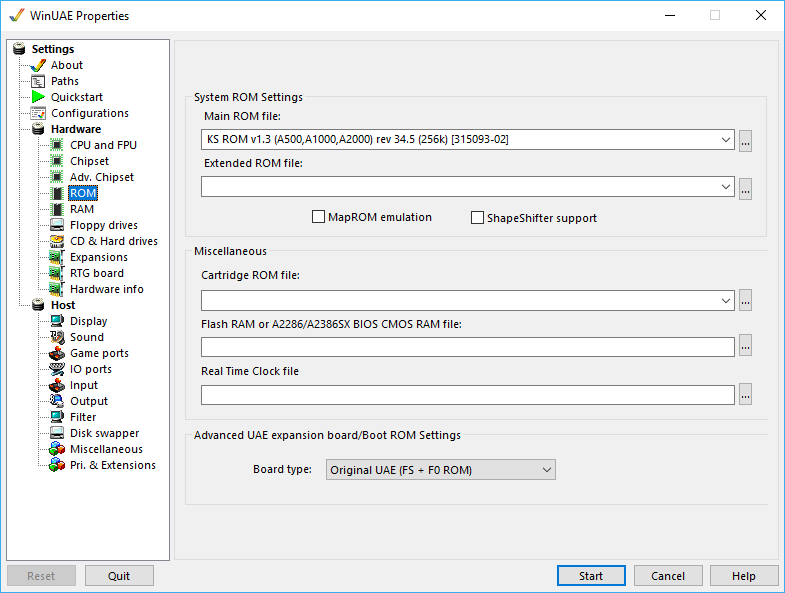
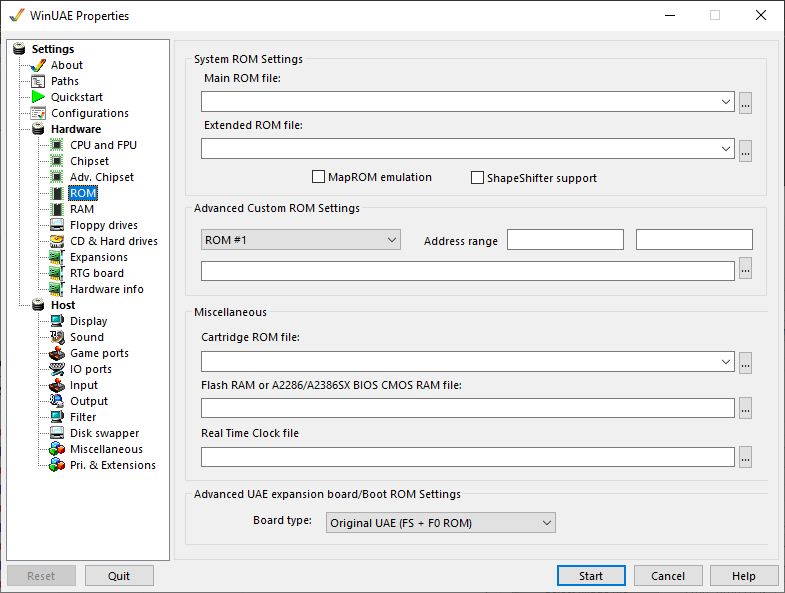
Latest changes for Winuae 4.2.0

diff --git a/gui/rom.htm b/gui/rom.htm
@@ -25,6 +25,13 @@
     support, so you don't have to KickShift your ROM-images. This
     also allows Amiga Forever users (encrypted ROM-images can't be
     KickShift'ed) to use ShapeShifter.</p>
+    <h1>Advanced Custom ROM Settings</h1>
+    <p><strong>ROM Number</strong> select a custom rom from 1 to
+    4.<br>
+    <strong>Address Range</strong> can be used to select a memory
+    address range for ROM code to occupy.<br>
+    <strong>ROM file</strong> is the selected rom file to be
+    loaded.</p>
     <h1>Miscellaneous</h1>
     <p><strong>Cartridge ROM File</strong> will allow to add Action
     Replay ROM files<br>
@@ -32,7 +39,7 @@
     will allow you to save to NVRAM (Non-Volatile RAM) like the
     CD32<br>
     <strong>Real Time Clock file</strong> allow you to specify a
-    RTC file.<br></p>
+    RTC file.</p>
     <h1>Advanced UAE expansion board/Boot ROM Settings</h1>
     <p><strong>Board type</strong>: Original or new UAE, 64K or
     128K , Direct or Indirect board types.</p>

diff --git a/gui/display.htm b/gui/display.htm
@@ -19,6 +19,9 @@
     screen Default).<br>
     <strong>Windowed</strong> This lets you change the resolution
     used for the Amiga displayed in a Window on the PC screen.<br>
+    <strong>Window resize</strong> allows window to be resized
+    after starting emulation. <em>Hint:</em> to keep the aspect
+    ratio, press CTRL while resizing the window.<br>
     <strong>Refresh rate</strong> can be set to default, 56Hz, 60Hz
     NTSC, 72Hz or 75Hz.<br>
     <strong>Buffering</strong>. Select type of buffering required:

diff --git a/gui/misc.htm b/gui/misc.htm
@@ -108,6 +108,8 @@
     font using Windows font selection window.<br>
     <strong>Set default.</strong> Set the default font.<br>
     <strong>Select</strong> font size from 60% to 140%.<br>
+    <strong>Reset list customizations</strong> sets all list
+    customizations back to defaults.<br>
     <strong>Resizable GUI</strong> option to allow you expand or
     shrink the WinUAE Window.<br>
     <strong>Fullscreen GUI</strong> option to expand the WinUAE

diff --git a/gui/quickstart.htm b/gui/quickstart.htm
@@ -36,6 +36,8 @@
     <strong>Disk drive DF1:</strong> - Click 'Select Disk Image' to
     load an ADF file in to drive DF1 (see Disk Drives). You may
     Write protect or Eject disks as well.</p>
+    <p><strong>Set configuration</strong> sets the default
+    configuation for retrieval.</p>
     <h1>Mode</h1>
     <p><strong>Start in Quickstart mode</strong> - If enabled, then
     the Quickstart mode is the default.</p>

diff --git a/credits/changelog.htm b/credits/changelog.htm
@@ -6,6 +6,12 @@
 </head>
 <body>
   <article>
+    <h1>Version 3.0.1</h1>
+    <p>Peter:</p>
+    <ul>
+      <li>Updates for WinUAE 4.2: ROM, Quickstart, Misc,
+      Display</li>
+    </ul>
     <h1>Version 3.0</h1>
     <p>Georg:</p>
     <ul>
